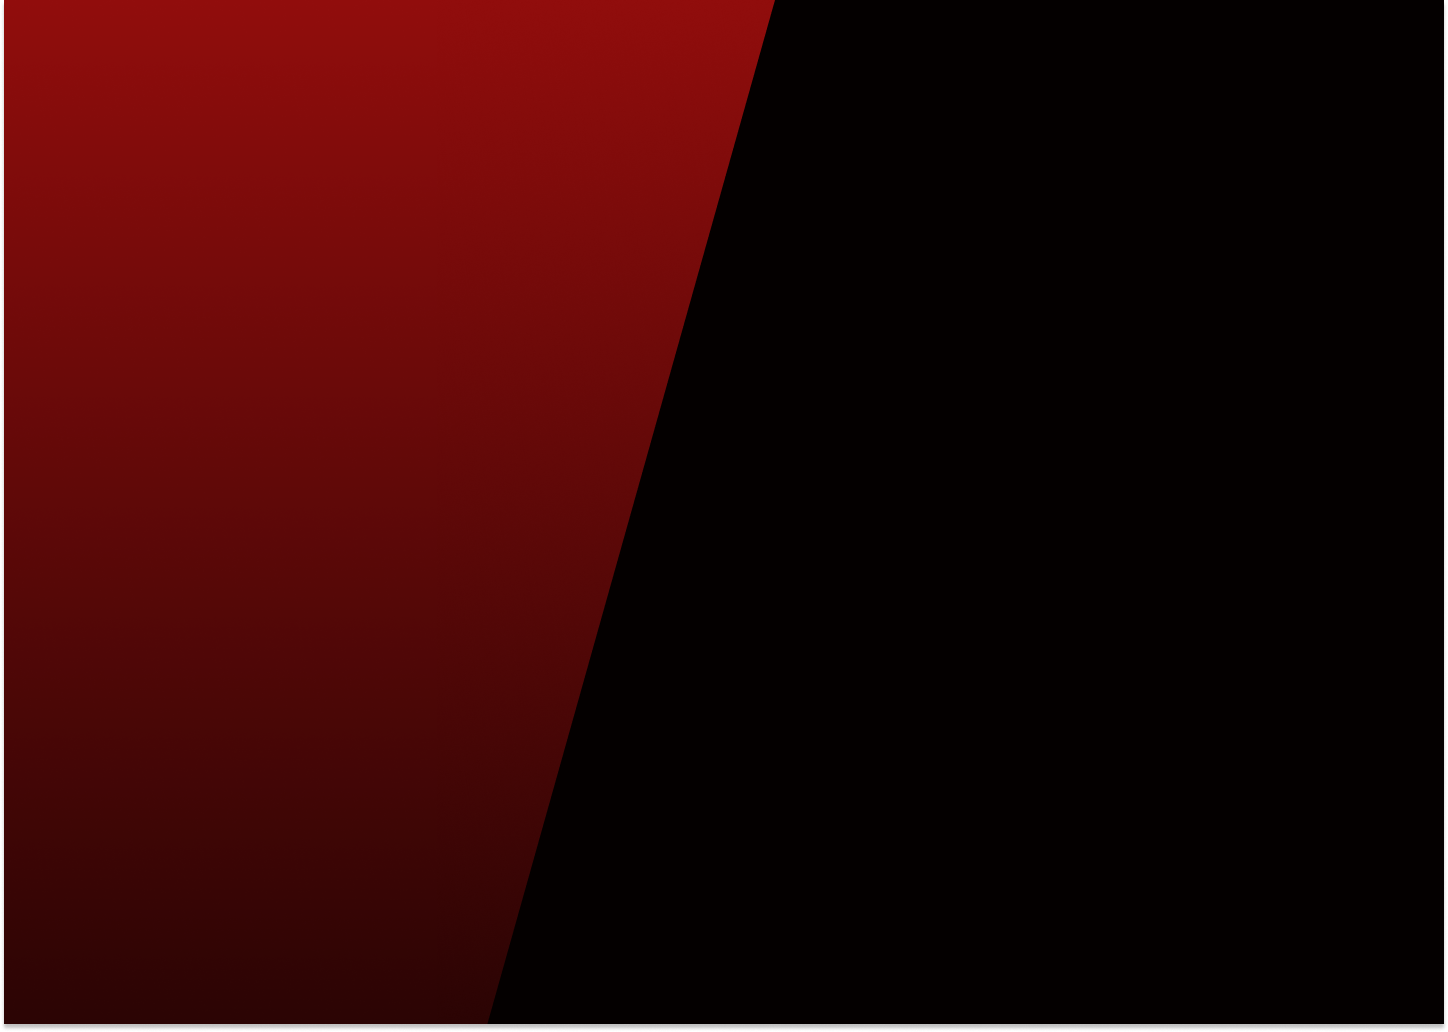
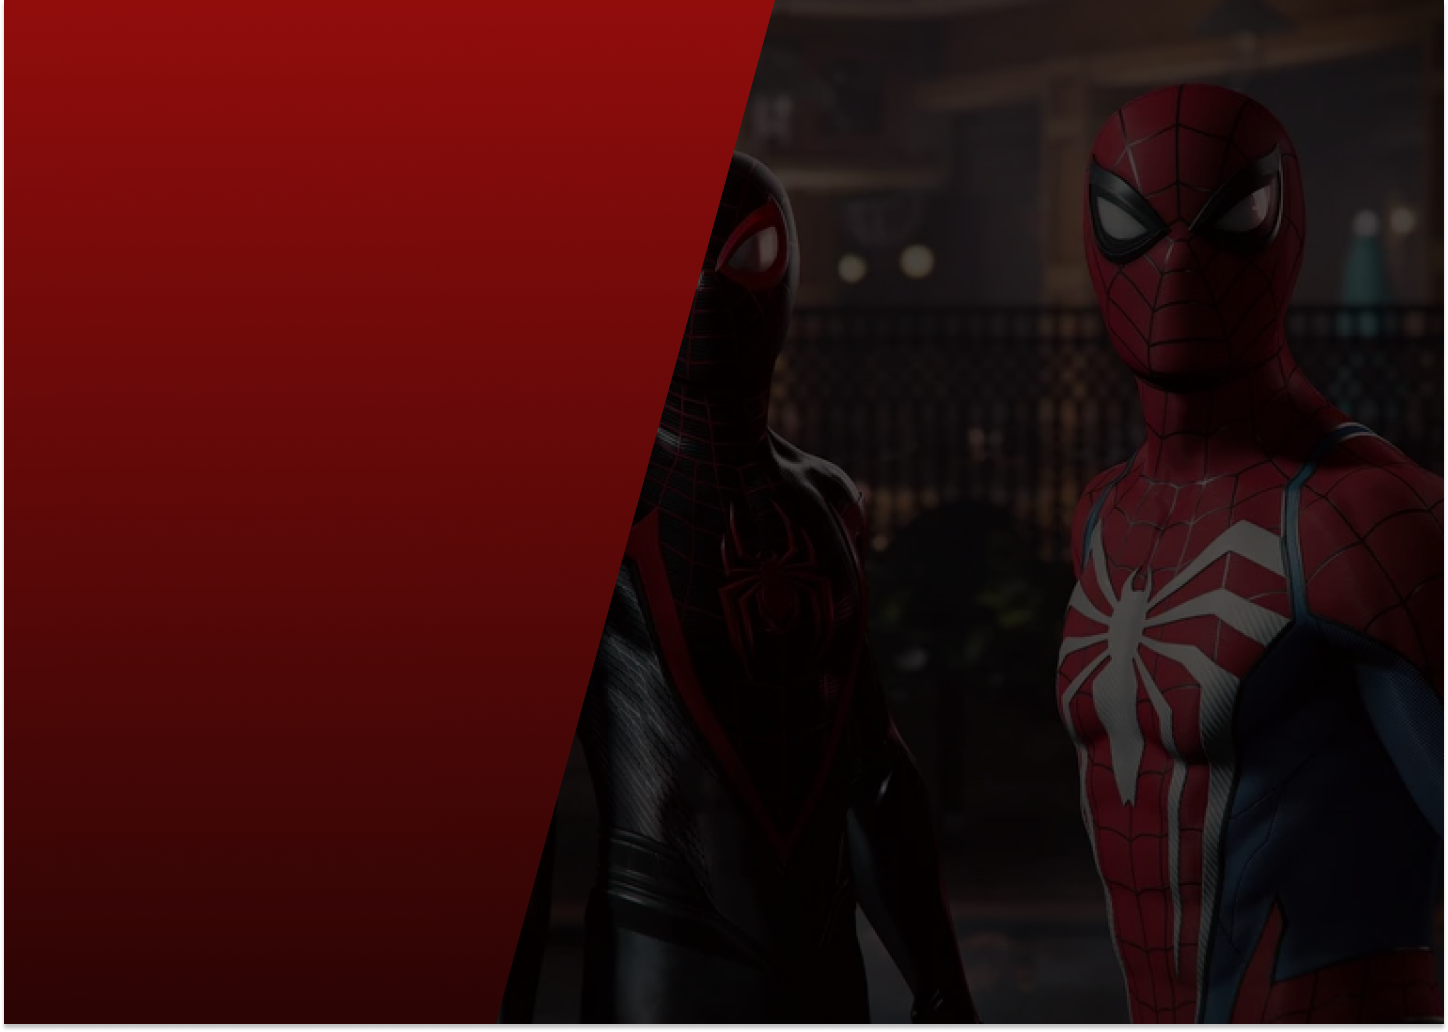
realizando o main

diff --git a/index.html b/index.html
@@ -13,9 +13,27 @@
         <div class="container_texto">
             <span>HOME</span>
             <span>STORY</span>
-            <span>WALLPEAPERS</span>
+            <span>WALLPAPERS</span>
             <span>SPIDERMAN2</span>  
         </div>
     </header>
+    <main>
+        <img src="./img/homens aranhas.png" alt="" class="homens_aranha">
+        <img src="./img/logo + texto.png" alt="" class="logo">
+        <div class="resumo">
+            <h3>
+                Spider-Men. Peter Parker and Miles Morales, return for an 
+            exciting new adventure in the critically acclaimed Marvel's
+                                       Spider-Man franchise for PS5.
+              Swing, jump and utilize the new Web Wings to travel across
+            Marvel's New York quickly switching between Peter Parker and
+              Miles Morales to experience different stories and epic new
+            powers, as the iconic villain venom threatens to destroy their 
+                              lives, their city and the ones they love.
+            </h3>
+            
+        </div>
+        </h3>
+    </main>
 </body>
 </html>

diff --git a/css/style.css b/css/style.css
@@ -9,31 +9,47 @@ body{
     }
     
     header span{
-        font-size: 20px; 
+        font-size: 1.5vh; 
     }
     .container_texto{
         display: flex;
         justify-content: end;
         gap: 30px;
         color: white;
-        font-size: 20px;
         z-index: 1;
         top: -30px;
-        margin-right: 12%;
+        margin-right: 10%;
     }
     
     .indicador_pagina{
         z-index: 2;
         display: flex;
         align-items: center;
-        margin-left: 70%;
+        margin-left: 64.5%;
         transform: rotate(90deg);
         background-color: #910D0C;
         height: 40px;
         width: 10px;
-        top: -50%;
-
-        
     }
 
+   .homens_aranha{
+    height: 500px;
+    width: 500px;
+    margin-top: -100px;
+    margin-left: 150px;
+   }
+
+   .logo{
+    margin-left: 150px;
+   }
+
+.resumo h3{
+    color: white;
+    font-size: 20px;
+    margin-left: 700px;
+    padding: 20px;
+    display: flex;
+    align-items: center;
+    justify-content: center;
+}
    
